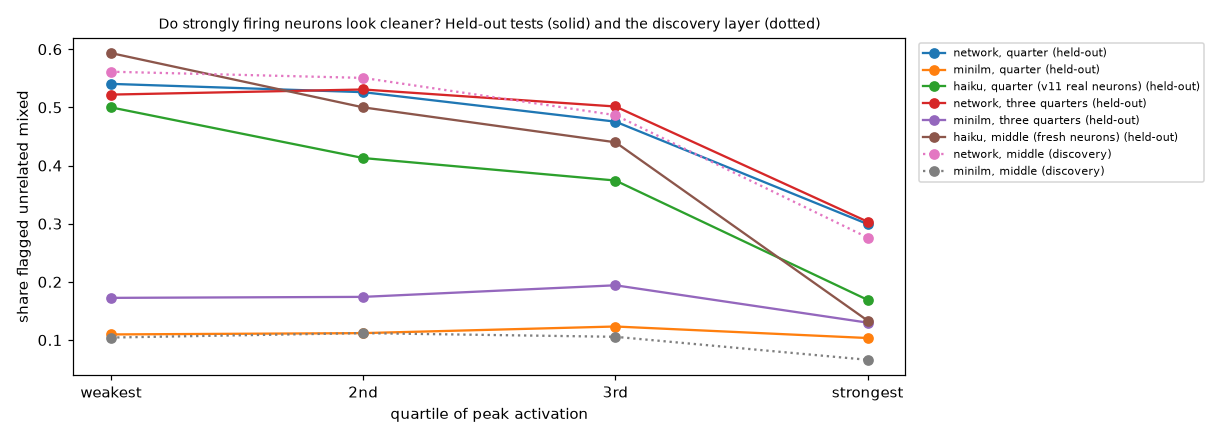
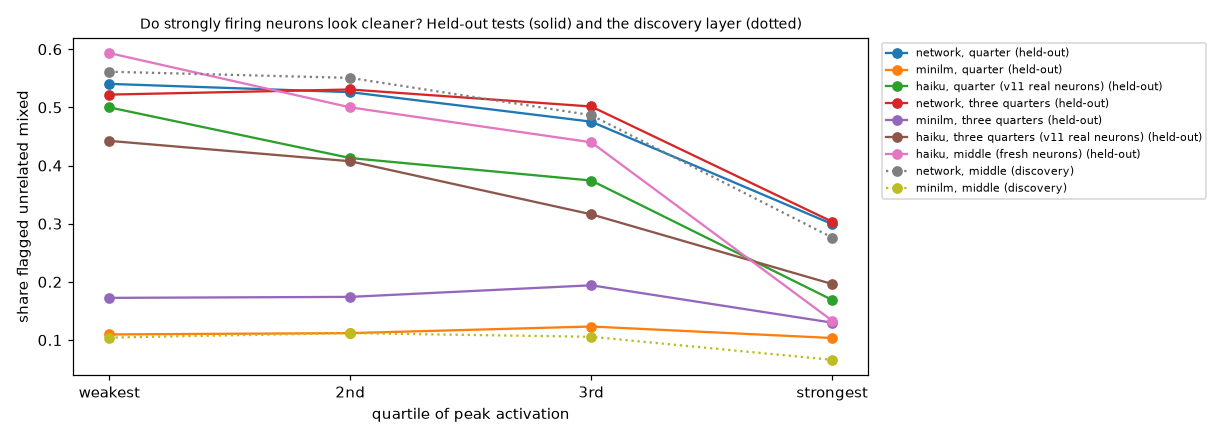
Add v11's three-quarters Haiku readings to v12
Pre-registered: v11 finished reading that depth.

diff --git a/README.md b/README.md
@@ -620,7 +620,7 @@ An independent review of v9 ran while v12's rules were being written. Its report
 1. **Held-out data.**
    - The network reader's (v6) and MiniLM's (v5) flags at the quarter and three-quarters depths of all six sizes. They were computed for every sampled neuron in earlier versions but never examined for magnitude.
    - Fresh Haiku readings at the middle layer: 25 sampled neurons from each peak quartile per model (600 in all), none of them among v7's 100, read with v7's prompt and CLI. All 600 returned a valid label.
-   - v11's Haiku readings of real neurons (v7's design at the other depths, branch `v11`), added if they existed at analysis time. The quarter depth was complete (100 real neurons per model, 600 in all). The three-quarters depth was still being read, so it isn't included. The first write-up of v12 wrongly said no v11 readings existed and left them out; v12's independent review caught that.
+   - v11's Haiku readings of real neurons (v7's design at the other depths, branch `v11`), added if they existed at analysis time. The first write-up of v12 wrongly said no v11 readings existed and left them out; v12's independent review caught that. By then the quarter depth was complete (100 real neurons per model, 600 in all), and the three-quarters depth was added when v11 finished reading it (599 of 600 with a valid label).
 2. **Peak** is log(peak / median peak of the layer's sampled neurons). The normalization doesn't affect any test, since quartiles and correlations are taken within models and the regression has a fixed effect per model.
 3. **H1 (primary), per reader and depth.** The top peak quartile's flag rate minus the other three quartiles' must be below zero, with a bootstrap interval entirely below zero. Peak's Spearman correlation with the flag must also be negative in at least 5 of the 6 models.
 4. **H2 (controls).** A logistic regression of the flag on standardized log peak, peakedness (peak over the 50th-ranked window maximum), density (share of windows at or above half the peak) and token purity, with a fixed effect per model. It holds if log peak's coefficient has a bootstrap interval entirely below zero.
@@ -638,6 +638,7 @@ The middle-layer network and MiniLM results are where the effect was found. They
 | network, quarter | 12,242 | 54% / 53% / 48% / 30% | -21 (-23.5 to -19.5), 6/6 | -0.58 (-0.64 to -0.52) | yes / yes |
 | network, three quarters | 11,786 | 52% / 53% / 50% / 30% | -21 (-23.4 to -19.4), 6/6 | -0.56 (-0.62 to -0.51) | yes / yes |
 | Haiku, quarter (v11's real neurons) | 600 | 50% / 41% / 37% / 17% | -25 (-33.0 to -17.6), 6/6 | -0.85 (-1.19 to -0.59) | yes / yes |
+| Haiku, three quarters (v11's real neurons) | 599 | 44% / 41% / 32% / 20% | -20 (-27.7 to -12.0), 6/6 | -0.81 (-1.13 to -0.54) | yes / yes |
 | Haiku, middle (fresh neurons) | 600 | 59% / 50% / 44% / 13% | -38 (-44.9 to -30.5), 6/6 | -0.94 (-1.37 to -0.60) | yes / yes |
 | MiniLM, quarter | 12,242 | 11% / 11% / 12% / 10% | -1 (-2.4 to +0.1), 4/6 | -0.22 (-0.31 to -0.14) | no / yes |
 | MiniLM, three quarters | 11,786 | 17% / 17% / 19% / 13% | -5 (-6.4 to -3.5), 6/6 | -0.28 (-0.35 to -0.21) | yes / yes |
@@ -649,14 +650,14 @@ Points 4 and 5 are exploratory. Point 5 was added after v9's review; point 4, th
 
 1. **The effect replicates on every held-out test for the network reader and Haiku, in all six models.**
    - Network reader: at both held-out depths, the strongest quarter of neurons is flagged 21 points less than the rest. It's mostly a step at the top quartile (54%, 53%, 48%, then 30%), with Spearman correlations of only -0.08 to -0.30 by model.
-   - Haiku: 25 points less on 600 real neurons at the quarter depth, a held-out depth, and 38 points less on 600 fresh neurons at the middle depth. Haiku's decline is more graded (59%, 50%, 44%, 13% at the middle depth).
+   - Haiku: 25 and 20 points less on about 600 real neurons at each held-out depth, and 38 points less on 600 fresh neurons at the middle depth. Haiku's decline is more graded (59%, 50%, 44%, 13% at the middle depth).
 2. **The pre-registered controls don't explain it.** With peakedness, density and token purity in the regression, log peak's coefficient stays clearly negative in every test (H2).
 3. **MiniLM shows the same direction at a much smaller scale:** 1 to 5 points, and its quarter-depth H1 fails. Its H2 holds, but its flag rate is only 10% to 19%.
 4. **The effect doesn't depend on using the single peak, or on neurons Haiku had already seen.**
    - With quartiles of the mean of a neuron's 50 strongest window maxima (the level of the examples the readers see) instead of its single largest, the top quartile is flagged 23 to 27 points less by the network reader and 22 to 32 less by Haiku, in all six models.
    - 84 of Haiku's 600 fresh neurons are part of v9's Haiku-read unions, so Haiku had in effect seen some of their examples. Without them, H1 is -38 points (-46 to -30) and H2's coefficient is -1.08 (-1.53 to -0.73).
-5. **Strong neurons' top examples are more alike inside the network, and that similarity accounts for much of Haiku's effect.** v6's top-pair percentile measures how alike a neuron's 50 strongest examples are in the network's representation: their median pairwise similarity, ranked against random positions. It correlates 0.51 to 0.60 with log peak. Adding it to H2's regression:
-   - **Haiku**, which never sees that representation: similarity's coefficient is -0.93 (-1.28 to -0.69) at the middle depth and -0.81 at the quarter depth. Log peak's coefficient shrinks by 0.58 (0.42 to 0.77, paired bootstrap), from -0.94 to -0.37 (-0.81 to -0.03), and by 0.52 at the quarter depth.
+5. **Strong neurons' top examples are more alike inside the network, and that similarity accounts for much of Haiku's effect.** v6's top-pair percentile measures how alike a neuron's 50 strongest examples are in the network's representation: their median pairwise similarity, ranked against random positions. It correlates 0.50 to 0.60 with log peak. Adding it to H2's regression:
+   - **Haiku**, which never sees that representation: similarity's coefficient is -0.93 (-1.28 to -0.69) at the middle depth, -0.81 at the quarter depth and -0.85 at three quarters. Log peak's coefficient shrinks by 0.58 (0.42 to 0.77, paired bootstrap) at the middle depth, from -0.94 to -0.37 (-0.81 to -0.03); by 0.52 at the quarter depth; and by 0.60 at three quarters, where its interval then includes 0 (-0.56 to +0.10).
    - **MiniLM:** the same pattern, smaller. Similarity's coefficient is -0.17 to -0.39, and log peak's shrinks by 0.10 to 0.25; at three quarters its interval then includes 0.
    - **Network reader:** similarity takes over (-1.4 to -1.5), and log peak's coefficient turns positive (+0.18 to +0.27). This says little. The flag and the similarity are computed from the same similarity matrix of the same examples, against the same null, so this is close to controlling for the outcome. The positive sign is a suppression effect of that, not evidence that stronger neurons are flagged more at fixed similarity.
 
@@ -664,7 +665,7 @@ Points 4 and 5 are exploratory. Point 5 was added after v9's review; point 4, th
 
 - **A pre-registered, replicated regularity.**
   - The network reader confirms it at two held-out depths of six Pythia sizes.
-  - Haiku confirms it on fresh neurons at the middle depth and on real neurons at the quarter depth.
+  - Haiku confirms it on real neurons at both held-out depths and on fresh neurons at the middle depth.
   - It holds with the mean of the top 50 in place of the single peak.
 - **Its source is shared with how alike a neuron's strongest examples are.** That similarity is a continuous version of what the readers judge, so point 5 describes the effect rather than explaining it. Even so, it's notable that Haiku, which reads only text, tracks a similarity measured inside the network.
 - **It doesn't say weak neurons are more polysemantic.** Two readings fit the data, and both predict lower similarity for weak neurons:
@@ -679,7 +680,6 @@ Points 4 and 5 are exploratory. Point 5 was added after v9's review; point 4, th
 - **The flag is a property of the top-50 sample, not of the neuron.** Any selection that makes strong neurons' top 50 more alike would give this pattern.
 - **Point 5 is close to circular for the network reader** (same similarity matrix and null), and post hoc for all readers.
 - **Haiku's labels are noisy.** v7's retest gave kappa 0.37 on real neurons, and v12 didn't retest.
-- **Haiku at the held-out three-quarters depth** isn't included, because v11 hadn't finished reading it when v12 was analyzed.
 - **Token purity** is computed with a stable sort, so in about 10% of neurons one of its 50 windows differs from the readers' 50 at a float16 tie (purity changes by at most 0.02).
 - **Haiku runs through the `claude` CLI,** which adds a little hidden context: the working directory, the platform, the date and an account notice. It includes no git branch, commit or file contents.
 - **Scope:** Pythia 70M to 2.8B, three depths, the 50 strongest examples per neuron. v5's eligibility filter drops near-dead and very dense neurons, so the weakest quartile isn't the models' weakest neurons.
